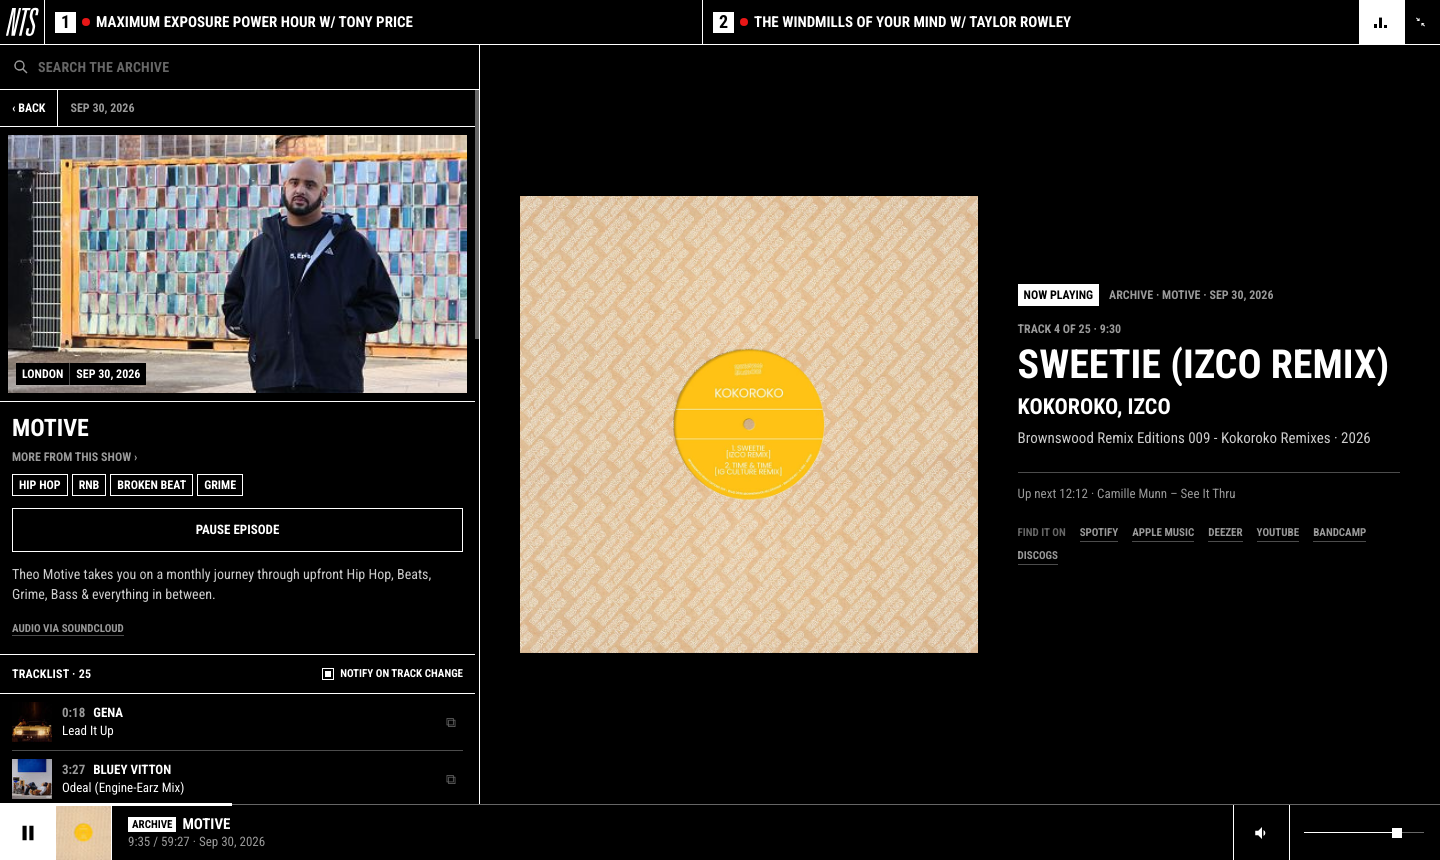
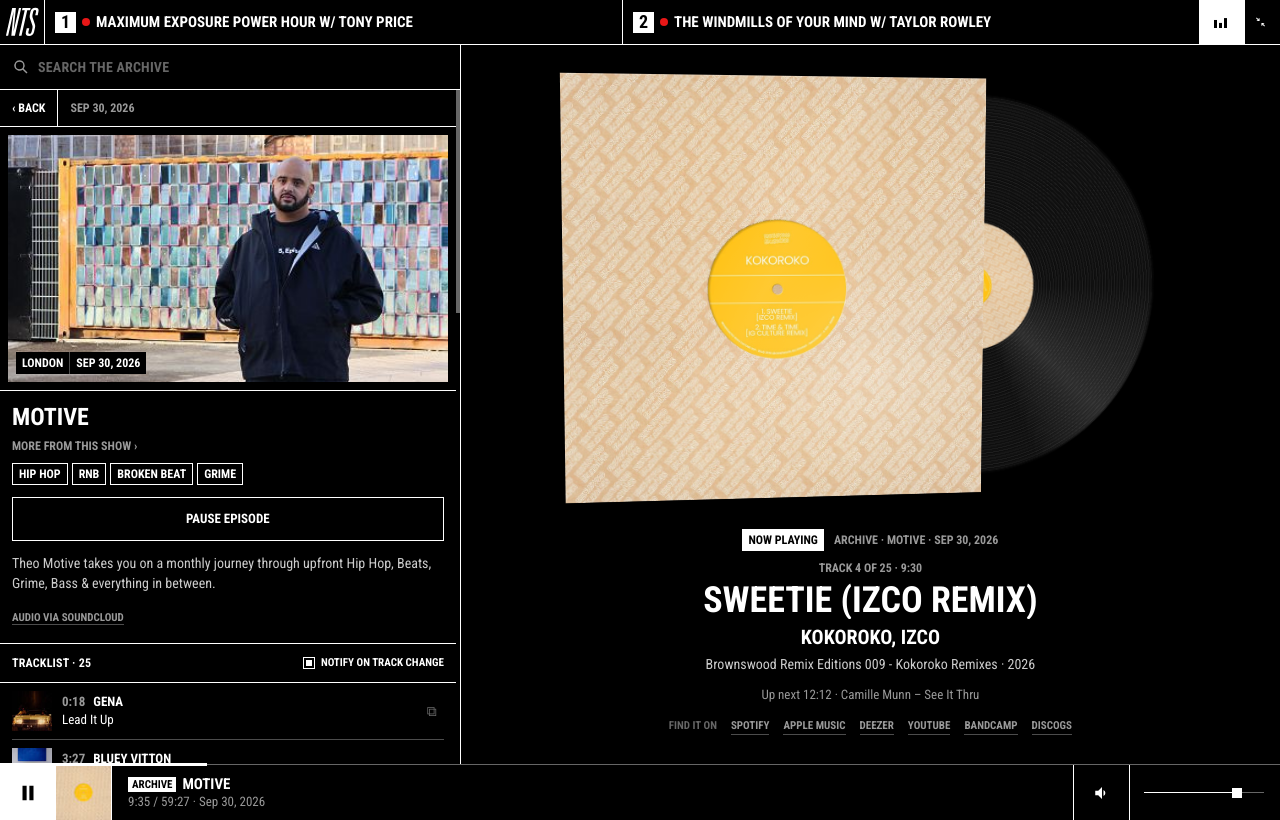
Make the album art the centrepiece of the wide view
- Big centred cover with the track info underneath
- Subtle 3D tilt that follows the cursor, with a moving shine and a
  shadow that shifts with the tilt, like a glossy record sleeve
- A vinyl slides out from behind the sleeve and spins while an archive
  track plays, with the cover art on its label; slides back when paused
- Tilt and spin are switched off when reduced motion is on

Claude-Session: https://claude.ai/code/session_011HAuvYWG96Zcs9KmmZ1qof

diff --git a/src/style.css b/src/style.css
@@ -462,53 +462,127 @@ body.playing .track__art { background: var(--grey-1); }
   .stage {
     grid-column: 2; grid-row: 2; display: grid; min-width: 0; min-height: 0;
     grid-template-rows: minmax(0, 1fr);
-    background: var(--black); color: var(--white);
+    background: var(--black); color: var(--white); overflow: hidden;
+    --info-h: 230px;   /* room kept under the artwork for the track info */
   }
-  /* "Now playing · Archive · Motive" sits above the track title */
-  .stage__eyebrow {
-    display: flex; align-items: center; gap: 10px; min-width: 0; margin-bottom: 8px;
-    font-size: 12px; line-height: 14px; font-weight: 700; text-transform: uppercase;
-  }
-  .stage__label { flex-shrink: 0; padding: 4px 6px; background: var(--white); color: var(--black); }
-  .stage__context { color: var(--grey-2); white-space: nowrap; overflow: hidden; text-overflow: ellipsis; }
 
+  /* The artwork is the feature: big and centred, info underneath */
   .stage__body {
-    min-height: 0; display: flex; align-items: center; gap: 40px; padding: 32px 40px;
-    overflow: hidden;
+    min-height: 0; display: flex; flex-direction: column; align-items: center; justify-content: center;
+    gap: 28px; padding: 28px 32px 24px; overflow: hidden;
   }
-  /* Art fills the height it has, as a square (album) or 16:9 (show artwork) */
+
+  /* Square album sleeve, as big as the space allows */
   .stage__art {
-    /* square: as big as the height allows, capped so the text keeps room */
-    flex: 0 0 auto; width: min(52%, calc(100vh - 45px - var(--bar) - 64px), 640px); aspect-ratio: 1 / 1;
-    background: var(--grey-4); position: relative; overflow: hidden;
-    box-shadow: 0 1px 20px 0 rgba(0, 0, 0, .05);
+    --size: min(calc(100vh - 45px - var(--bar) - 52px - var(--info-h)), 56%, 640px);
+    width: var(--size); aspect-ratio: 1 / 1; flex-shrink: 0; position: relative;
+    perspective: 1100px; transition: transform .6s cubic-bezier(.2, .7, .2, 1);
   }
-  .stage__art--wide { aspect-ratio: 16 / 9; width: min(58%, calc((100vh - 45px - var(--bar) - 64px) * 16 / 9)); }
-  .stage__art img { position: absolute; inset: 0; width: 100%; height: 100%; object-fit: cover; display: block; }
-  .stage__art img:not([src]) { display: none; }
-  .stage__art--empty::after {
+  /* Show artwork (live) is 16:9 and has no record */
+  .stage__art--wide { --size: min(calc((100vh - 45px - var(--bar) - 52px - var(--info-h)) * 16 / 9), 80%); aspect-ratio: 16 / 9; }
+
+  /* Tilt: follows the cursor (set from JS as --rx / --ry) */
+  .stage__tilt {
+    position: absolute; inset: 0; transform-style: preserve-3d;
+    transform: rotateX(var(--rx, 0deg)) rotateY(var(--ry, 0deg));
+    transition: transform .5s cubic-bezier(.2, .7, .2, 1);
+  }
+  .stage__art.is-tracking .stage__tilt { transition: transform .08s linear; }
+
+  .stage__cover {
+    position: absolute; inset: 0; overflow: hidden; background: var(--grey-4);
+    transform: translateZ(0);
+    box-shadow:
+      calc(var(--ry, 0deg) / 1deg * -1.2px) calc(18px + var(--rx, 0deg) / 1deg * 1.2px) 40px rgba(0, 0, 0, .7),
+      0 2px 6px rgba(0, 0, 0, .6);
+  }
+  .stage__cover img { position: absolute; inset: 0; width: 100%; height: 100%; object-fit: cover; display: block; }
+  .stage__cover img:not([src]) { display: none; }
+  /* Printed-sleeve feel: a faint edge highlight */
+  .stage__cover::before {
+    content: ""; position: absolute; inset: 0; z-index: 2; pointer-events: none;
+    box-shadow: inset 0 0 0 1px rgba(255, 255, 255, .08), inset 0 1px 0 rgba(255, 255, 255, .12);
+  }
+  /* Shine: a soft light that moves with the cursor, plus a fixed gentle sheen */
+  .stage__shine {
+    position: absolute; inset: 0; z-index: 1; pointer-events: none; mix-blend-mode: screen;
+    background:
+      radial-gradient(circle at var(--gx, 30%) var(--gy, 20%), rgba(255, 255, 255, .28), rgba(255, 255, 255, .06) 28%, transparent 55%),
+      linear-gradient(115deg, transparent 38%, rgba(255, 255, 255, .07) 48%, transparent 58%);
+    opacity: .55; transition: opacity .4s linear;
+  }
+  .stage__art.is-tracking .stage__shine { opacity: 1; }
+
+  .stage__art--empty .stage__cover::after {
     content: ""; position: absolute; inset: 22%; border-radius: 50%;
     border: 1px solid var(--grey-3); box-shadow: inset 0 0 0 28px var(--grey-4), inset 0 0 0 29px var(--grey-3);
   }
 
-  .stage__info { flex: 1 1 0; min-width: 220px; display: flex; flex-direction: column; gap: 8px; user-select: text; }
+  /* The record: tucked behind the sleeve, slides out and spins while playing */
+  .stage__record {
+    position: absolute; top: 3%; left: 3%; width: 94%; height: 94%; border-radius: 50%;
+    transform: translateZ(-30px) translateX(0) rotate(0deg);
+    transition: transform .9s cubic-bezier(.2, .7, .2, 1);
+    background:
+      radial-gradient(circle, transparent 0 15.5%, rgba(255, 255, 255, .05) 15.6% 16%, transparent 16.1%),
+      repeating-radial-gradient(circle, #101010 0 1.4px, #1e1e1e 1.5px 2.4px, #0d0d0d 2.5px 3.2px),
+      #101010;
+    box-shadow: 0 10px 30px rgba(0, 0, 0, .7), inset 0 0 0 2px #050505;
+    display: none;
+  }
+  /* light catching the grooves */
+  .stage__record::before {
+    content: ""; position: absolute; inset: 0; border-radius: 50%;
+    background: conic-gradient(from 20deg, transparent 0 6%, rgba(255, 255, 255, .16) 12%, transparent 19% 50%, rgba(255, 255, 255, .12) 62%, transparent 69%);
+  }
+  .stage__record-label {
+    position: absolute; inset: 33%; border-radius: 50%; background: #222 center / cover no-repeat;
+    box-shadow: 0 0 0 1px rgba(0, 0, 0, .6);
+  }
+  .stage__record-label::after {   /* spindle hole */
+    content: ""; position: absolute; left: 50%; top: 50%; width: 6%; height: 6%; margin: -3% 0 0 -3%;
+    border-radius: 50%; background: var(--black);
+  }
+  .stage__art--album .stage__record { display: block; }
+  body.stage-spinning .stage__art--album { transform: translateX(-22%); }
+  body.stage-spinning .stage__art--album .stage__record {
+    transform: translateZ(-30px) translateX(52%);
+  }
+  body.stage-spinning .stage__art--album .stage__record-label,
+  body.stage-spinning .stage__art--album .stage__record::before { animation: spin 1.8s linear infinite; }
+  @keyframes spin { to { transform: rotate(360deg); } }
+  @media (prefers-reduced-motion: reduce) {
+    .stage__tilt { transform: none !important; }
+    body.stage-spinning .stage__art--album .stage__record-label,
+    body.stage-spinning .stage__art--album .stage__record::before { animation: none; }
+  }
+
+  /* Info underneath, centred */
+  .stage__info {
+    width: min(100%, 680px); flex-shrink: 0; max-height: var(--info-h);
+    display: flex; flex-direction: column; align-items: center; text-align: center; gap: 6px;
+    user-select: text; overflow: hidden;
+  }
+  .stage__eyebrow {
+    display: flex; align-items: center; justify-content: center; gap: 10px; min-width: 0; max-width: 100%;
+    font-size: 12px; line-height: 14px; font-weight: 700; text-transform: uppercase; margin-bottom: 4px;
+  }
+  .stage__label { flex-shrink: 0; padding: 4px 6px; background: var(--white); color: var(--black); }
+  .stage__context { color: var(--grey-2); white-space: nowrap; overflow: hidden; text-overflow: ellipsis; }
   .stage__kicker { font-size: 12px; line-height: 14px; font-weight: 700; text-transform: uppercase; color: var(--grey-2); }
   .stage__kicker:empty { display: none; }
   .stage__title {
-    font-size: 40px; line-height: 42px; font-weight: 700; text-transform: uppercase; margin: 0;
-    display: -webkit-box; -webkit-line-clamp: 4; -webkit-box-orient: vertical; overflow: hidden; overflow-wrap: anywhere;
+    font-size: 36px; line-height: 38px; font-weight: 700; text-transform: uppercase; margin: 0;
+    display: -webkit-box; -webkit-line-clamp: 2; -webkit-box-orient: vertical; overflow: hidden; overflow-wrap: anywhere;
   }
-  .stage__title--long { font-size: 30px; line-height: 33px; }
-  .stage__artist { font-size: 22px; line-height: 26px; font-weight: 700; text-transform: uppercase; }
-  .stage__album { font-size: 15px; line-height: 20px; color: var(--grey-1); }
-  .stage__next {
-    margin-top: 16px; padding-top: 12px; border-top: 1px solid var(--grey-4);
-    font-size: 13px; line-height: 18px; color: var(--grey-2);
-  }
+  .stage__title--long { font-size: 28px; line-height: 31px; }
+  .stage__artist { font-size: 20px; line-height: 24px; font-weight: 700; text-transform: uppercase; }
+  .stage__album { font-size: 14px; line-height: 19px; color: var(--grey-1); }
+  .stage__next { font-size: 13px; line-height: 18px; color: var(--grey-2); margin-top: 6px; }
   .stage__artist:empty, .stage__album:empty, .stage__next:empty { display: none; }
 
-  /* Listen-elsewhere links: a quiet line under the track details */
-  .stage__links { display: flex; flex-wrap: wrap; align-items: baseline; gap: 6px 14px; margin-top: 14px; }
+  /* Listen-elsewhere links: a quiet line at the bottom */
+  .stage__links { display: flex; flex-wrap: wrap; justify-content: center; align-items: baseline; gap: 6px 14px; margin-top: 8px; }
   .stage__links:has(.stage__links-list:empty) { display: none; }
   .stage__links-label { font-size: 11px; line-height: 16px; font-weight: 700; text-transform: uppercase; color: var(--grey-3); }
   .stage__links-list { display: contents; }
@@ -520,11 +594,11 @@ body.playing .track__art { background: var(--grey-1); }
   .stage__link:hover { color: var(--white); border-color: var(--white); }
 }
 
-/* Narrow-ish wide windows: stack art above the info */
-@media (min-width: 720px) and (max-width: 940px) {
-  .stage__body { flex-direction: column; align-items: flex-start; justify-content: center; gap: 16px; padding: 24px; }
-  .stage__art { width: min(100%, calc(100vh - 45px - var(--bar) - 340px)); min-width: 140px; }
-  .stage__art--wide { width: 100%; }
-  .stage__info { min-width: 0; width: 100%; }
-  .stage__title { font-size: 30px; line-height: 32px; -webkit-line-clamp: 2; }
+/* Short windows: smaller title so the cover keeps its size */
+@media (min-width: 720px) and (max-height: 700px) {
+  .stage { --info-h: 190px; }
+  .stage__title { font-size: 28px; line-height: 31px; }
+  .stage__title--long { font-size: 24px; line-height: 27px; }
+  .stage__body { gap: 20px; padding-top: 20px; }
+}
 }

diff --git a/src/renderer.js b/src/renderer.js
@@ -562,7 +562,9 @@ const Stage = (() => {
     const im = $('stageArtImg');
     if (img) { if (im.getAttribute('src') !== img) im.src = img; } else im.removeAttribute('src');
     $('stageArt').classList.toggle('stage__art--wide', !square);
+    $('stageArt').classList.toggle('stage__art--album', !!square && !!img);
     $('stageArt').classList.toggle('stage__art--empty', !img);
+    $('stageRecordLabel').style.backgroundImage = img && square ? `url("${img}")` : '';
     $('stageKicker').textContent = kicker || '';
     $('stageTitle').textContent = title || '';
     $('stageTitle').classList.toggle('stage__title--long', (title || '').length > 26);
@@ -576,6 +578,8 @@ const Stage = (() => {
     if (!wideQuery.matches) return;
     const my = ++token;
     const a = ArchivePlayer.state;
+    // The record slides out and spins while an archive track plays
+    document.body.classList.toggle('stage-spinning', source === 'archive' && !!a.episode && a.playing);
 
     if (source === 'archive' && a.episode) {
       const ep = a.episode;
@@ -623,6 +627,34 @@ const Stage = (() => {
       linkItems: info.episode ? [['View on nts.live', `https://www.nts.live/shows/${info.show}/episodes/${info.episode}`]] : []
     });
   }
+
+  // Cover tilt and shine follow the cursor anywhere over the stage
+  (() => {
+    const stageEl = $('stage');
+    const art = $('stageArt');
+    const MAX_X = 9, MAX_Y = 12;   // degrees
+    let frame = null;
+    stageEl.addEventListener('pointermove', (e) => {
+      if (frame) return;
+      frame = requestAnimationFrame(() => {
+        frame = null;
+        const r = art.getBoundingClientRect();
+        if (!r.width) return;
+        // -1..1 from the cover's centre, eased so it never flips hard
+        const nx = Math.max(-1, Math.min(1, (e.clientX - (r.left + r.width / 2)) / (r.width * 0.9)));
+        const ny = Math.max(-1, Math.min(1, (e.clientY - (r.top + r.height / 2)) / (r.height * 0.9)));
+        art.classList.add('is-tracking');
+        art.style.setProperty('--ry', `${(nx * MAX_Y).toFixed(2)}deg`);
+        art.style.setProperty('--rx', `${(-ny * MAX_X).toFixed(2)}deg`);
+        art.style.setProperty('--gx', `${(50 + nx * 45).toFixed(1)}%`);
+        art.style.setProperty('--gy', `${(50 + ny * 45).toFixed(1)}%`);
+      });
+    });
+    stageEl.addEventListener('pointerleave', () => {
+      art.classList.remove('is-tracking');
+      ['--rx', '--ry', '--gx', '--gy'].forEach((p) => art.style.removeProperty(p));
+    });
+  })();
 
   // Expand / collapse button; the layout itself follows the window width
   function paintButton() {

diff --git a/src/index.html b/src/index.html
@@ -74,7 +74,12 @@
   <!-- Wide view: the stage. Big album art and the full track details -->
   <aside class="stage" id="stage" aria-label="Now playing">
     <div class="stage__body">
-      <div class="stage__art" id="stageArt"><img id="stageArtImg" alt=""></div>
+      <div class="stage__art" id="stageArt">
+        <div class="stage__tilt" id="stageTilt">
+          <div class="stage__record" aria-hidden="true"><span class="stage__record-label" id="stageRecordLabel"></span></div>
+          <div class="stage__cover"><img id="stageArtImg" alt=""><span class="stage__shine"></span></div>
+        </div>
+      </div>
       <div class="stage__info">
         <p class="stage__eyebrow">
           <span class="stage__label" id="stageLabel">Now playing</span>

diff --git a/README.md b/README.md
@@ -31,8 +31,10 @@ for Windows, where there's no NTS app, but it runs anywhere Electron does.
   come from Deezer (by the track's Deezer ID or ISRC from NTS, or a search) and iTunes
   Search as a fallback. Only artist and title are sent; results are cached locally.
 - **Wide view.** The thin strip is the default. The expand button in the header (or
-  just making the window wider) adds a stage with the current track's album art, the
-  full title, artist and album, where it sits in the mix and what's next, plus links to
+  just making the window wider) adds a stage with the current track's album art as the
+  centrepiece: a record sleeve that tilts toward your cursor with a soft shine, and a
+  vinyl that slides out and spins while the track plays. Below it: the full title,
+  artist and album, where it sits in the mix and what's next, plus links to
   Spotify, Apple Music, Deezer, YouTube, Bandcamp and Discogs. Deezer and Apple Music
   go straight to the track when it was found; the others open a search.
 - **Genre tags** and the show description, with a link to the episode on nts.live.
